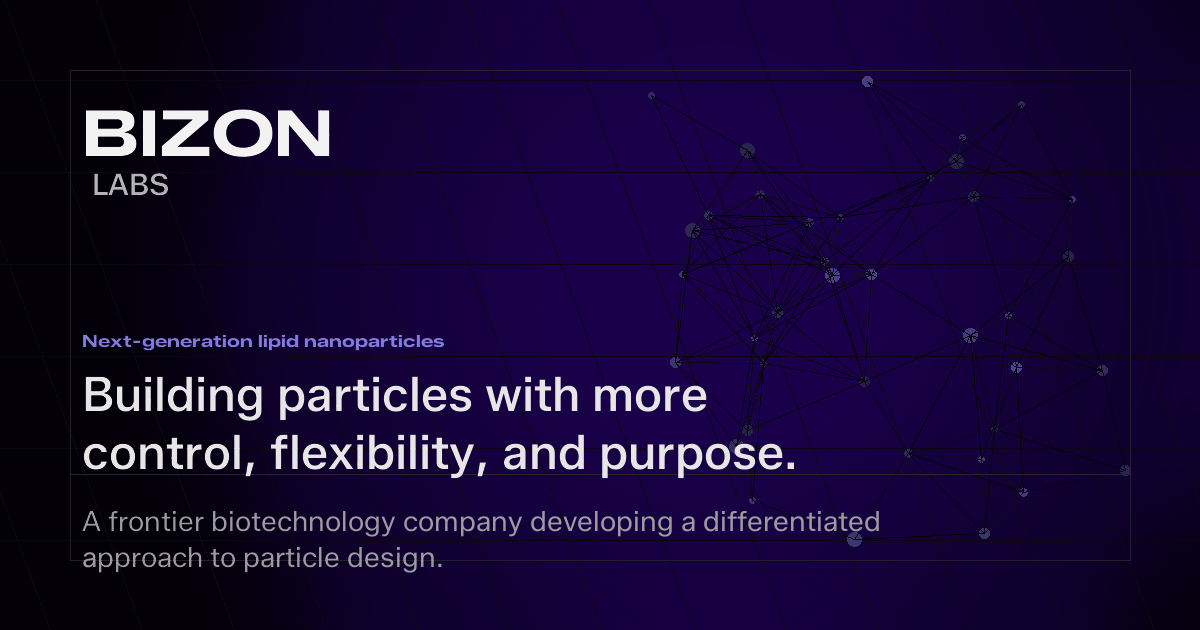
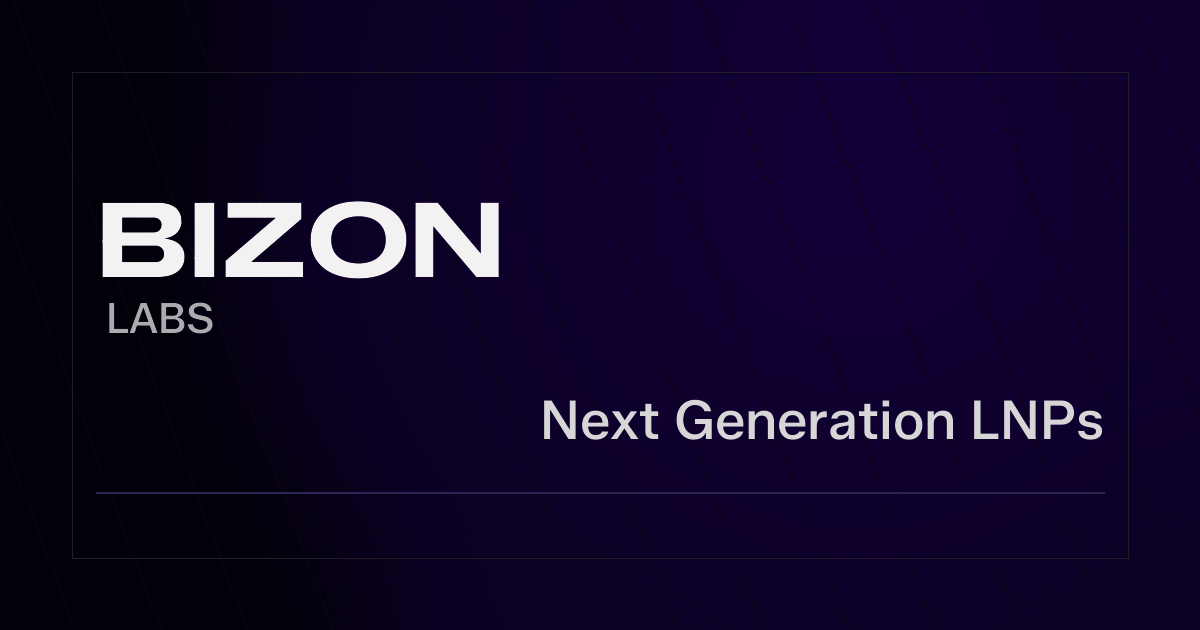
Simplify social preview card

diff --git a/tools/create_social_preview.py b/tools/create_social_preview.py
@@ -2,7 +2,6 @@
 from __future__ import annotations
 
 import math
-import random
 from pathlib import Path
 
 from PIL import Image, ImageDraw, ImageFilter, ImageFont
@@ -19,95 +18,40 @@ def font(name: str, size: int) -> ImageFont.FreeTypeFont:
     return ImageFont.truetype(str(FONT_DIR / name), size=size)
 
 
-def fit_text(draw: ImageDraw.ImageDraw, text: str, font_obj: ImageFont.FreeTypeFont, max_width: int) -> list[str]:
-    words = text.split()
-    lines: list[str] = []
-    current = ""
-    for word in words:
-        candidate = f"{current} {word}".strip()
-        if draw.textbbox((0, 0), candidate, font=font_obj)[2] <= max_width:
-            current = candidate
-        else:
-            if current:
-                lines.append(current)
-            current = word
-    if current:
-        lines.append(current)
-    return lines
-
-
-def draw_grid(draw: ImageDraw.ImageDraw) -> None:
-    for x in range(-180, WIDTH + 260, 92):
-        draw.line([(x, 0), (x + 230, HEIGHT)], fill=(255, 255, 255, 9), width=1)
-    for y in range(80, HEIGHT, 92):
-        draw.line([(0, y), (WIDTH, y)], fill=(255, 255, 255, 7), width=1)
-
-
-def draw_particles(draw: ImageDraw.ImageDraw) -> None:
-    random.seed(42)
-    particles = []
-    for _ in range(38):
-        x = random.randint(635, 1130)
-        y = random.randint(80, 540)
-        r = random.choice([3, 4, 5, 7])
-        particles.append((x, y, r))
-        alpha = random.randint(58, 132)
-        draw.ellipse((x - r, y - r, x + r, y + r), fill=(142, 132, 255, alpha))
-
-    for index, (x1, y1, _r1) in enumerate(particles):
-        for x2, y2, _r2 in particles[index + 1 :]:
-            distance = math.hypot(x1 - x2, y1 - y2)
-            if distance < 138:
-                alpha = int(38 * (1 - distance / 138))
-                draw.line([(x1, y1), (x2, y2)], fill=(142, 132, 255, alpha), width=1)
-
-
 def draw_wordmark(draw: ImageDraw.ImageDraw) -> None:
-    mark_font = font("ZalandoSansExpanded-Bold.ttf", 64)
-    lab_font = font("ZalandoSans-Medium.ttf", 30)
-    x = 82
-    y = 94
+    mark_font = font("ZalandoSansExpanded-Bold.ttf", 104)
+    lab_font = font("ZalandoSans-Medium.ttf", 42)
+    x = 96
+    y = 176
     draw.text((x, y), "BIZON", font=mark_font, fill=(255, 255, 255, 242))
-    draw.text((x + 10, y + 72), "LABS", font=lab_font, fill=(255, 255, 255, 178))
+    draw.text((x + 10, y + 116), "LABS", font=lab_font, fill=(255, 255, 255, 170))
 
 
 def main() -> None:
-    image = Image.new("RGB", (WIDTH, HEIGHT), (3, 0, 10))
+    image = Image.new("RGB", (WIDTH, HEIGHT), (2, 0, 8))
     overlay = Image.new("RGBA", (WIDTH, HEIGHT), (0, 0, 0, 0))
     draw = ImageDraw.Draw(overlay)
 
-    for radius, alpha in [(540, 90), (380, 58), (250, 42)]:
+    for radius, alpha in [(680, 88), (430, 46), (250, 28)]:
         layer = Image.new("RGBA", (WIDTH, HEIGHT), (0, 0, 0, 0))
         layer_draw = ImageDraw.Draw(layer)
-        layer_draw.ellipse((715 - radius, 280 - radius, 715 + radius, 280 + radius), fill=(42, 0, 122, alpha))
-        overlay.alpha_composite(layer.filter(ImageFilter.GaussianBlur(60)))
+        layer_draw.ellipse((860 - radius, 180 - radius, 860 + radius, 180 + radius), fill=(31, 0, 94, alpha))
+        overlay.alpha_composite(layer.filter(ImageFilter.GaussianBlur(80)))
 
-    draw_grid(draw)
-    draw_particles(draw)
+    for x in range(-160, WIDTH + 160, 86):
+        opacity = 12 if x % 172 == 0 else 7
+        draw.line([(x, 0), (x + 235, HEIGHT)], fill=(255, 255, 255, opacity), width=1)
 
-    draw.rectangle((70, 70, WIDTH - 70, HEIGHT - 70), outline=(255, 255, 255, 32), width=1)
-    draw.line((70, 474, WIDTH - 70, 474), fill=(255, 255, 255, 36), width=1)
+    draw.rectangle((72, 72, WIDTH - 72, HEIGHT - 72), outline=(255, 255, 255, 30), width=1)
 
     draw_wordmark(draw)
 
-    headline_font = font("ZalandoSans-Medium.ttf", 48)
-    body_font = font("ZalandoSans-Regular.ttf", 28)
-    eyebrow_font = font("ZalandoSansExpanded-Bold.ttf", 17)
+    line_font = font("ZalandoSans-Medium.ttf", 54)
+    text = "Next Generation LNPs"
+    bbox = draw.textbbox((0, 0), text, font=line_font)
+    draw.text((WIDTH - 96 - (bbox[2] - bbox[0]), 386), text, font=line_font, fill=(255, 255, 255, 214))
 
-    draw.text((82, 330), "Next-generation lipid nanoparticles", font=eyebrow_font, fill=(150, 141, 255, 220))
-
-    headline = "Building particles with more control, flexibility, and purpose."
-    y = 364
-    for line in fit_text(draw, headline, headline_font, 735):
-        draw.text((82, y), line, font=headline_font, fill=(255, 255, 255, 230))
-        y += 58
-
-    body = "A frontier biotechnology company developing a differentiated approach to particle design."
-    body_lines = fit_text(draw, body, body_font, 840)
-    y = 504
-    for line in body_lines[:2]:
-        draw.text((82, y), line, font=body_font, fill=(255, 255, 255, 155))
-        y += 36
+    draw.line((96, 492, WIDTH - 96, 492), fill=(124, 112, 235, 84), width=2)
 
     composed = Image.alpha_composite(image.convert("RGBA"), overlay)
     composed.convert("RGB").save(OUT, quality=94)
